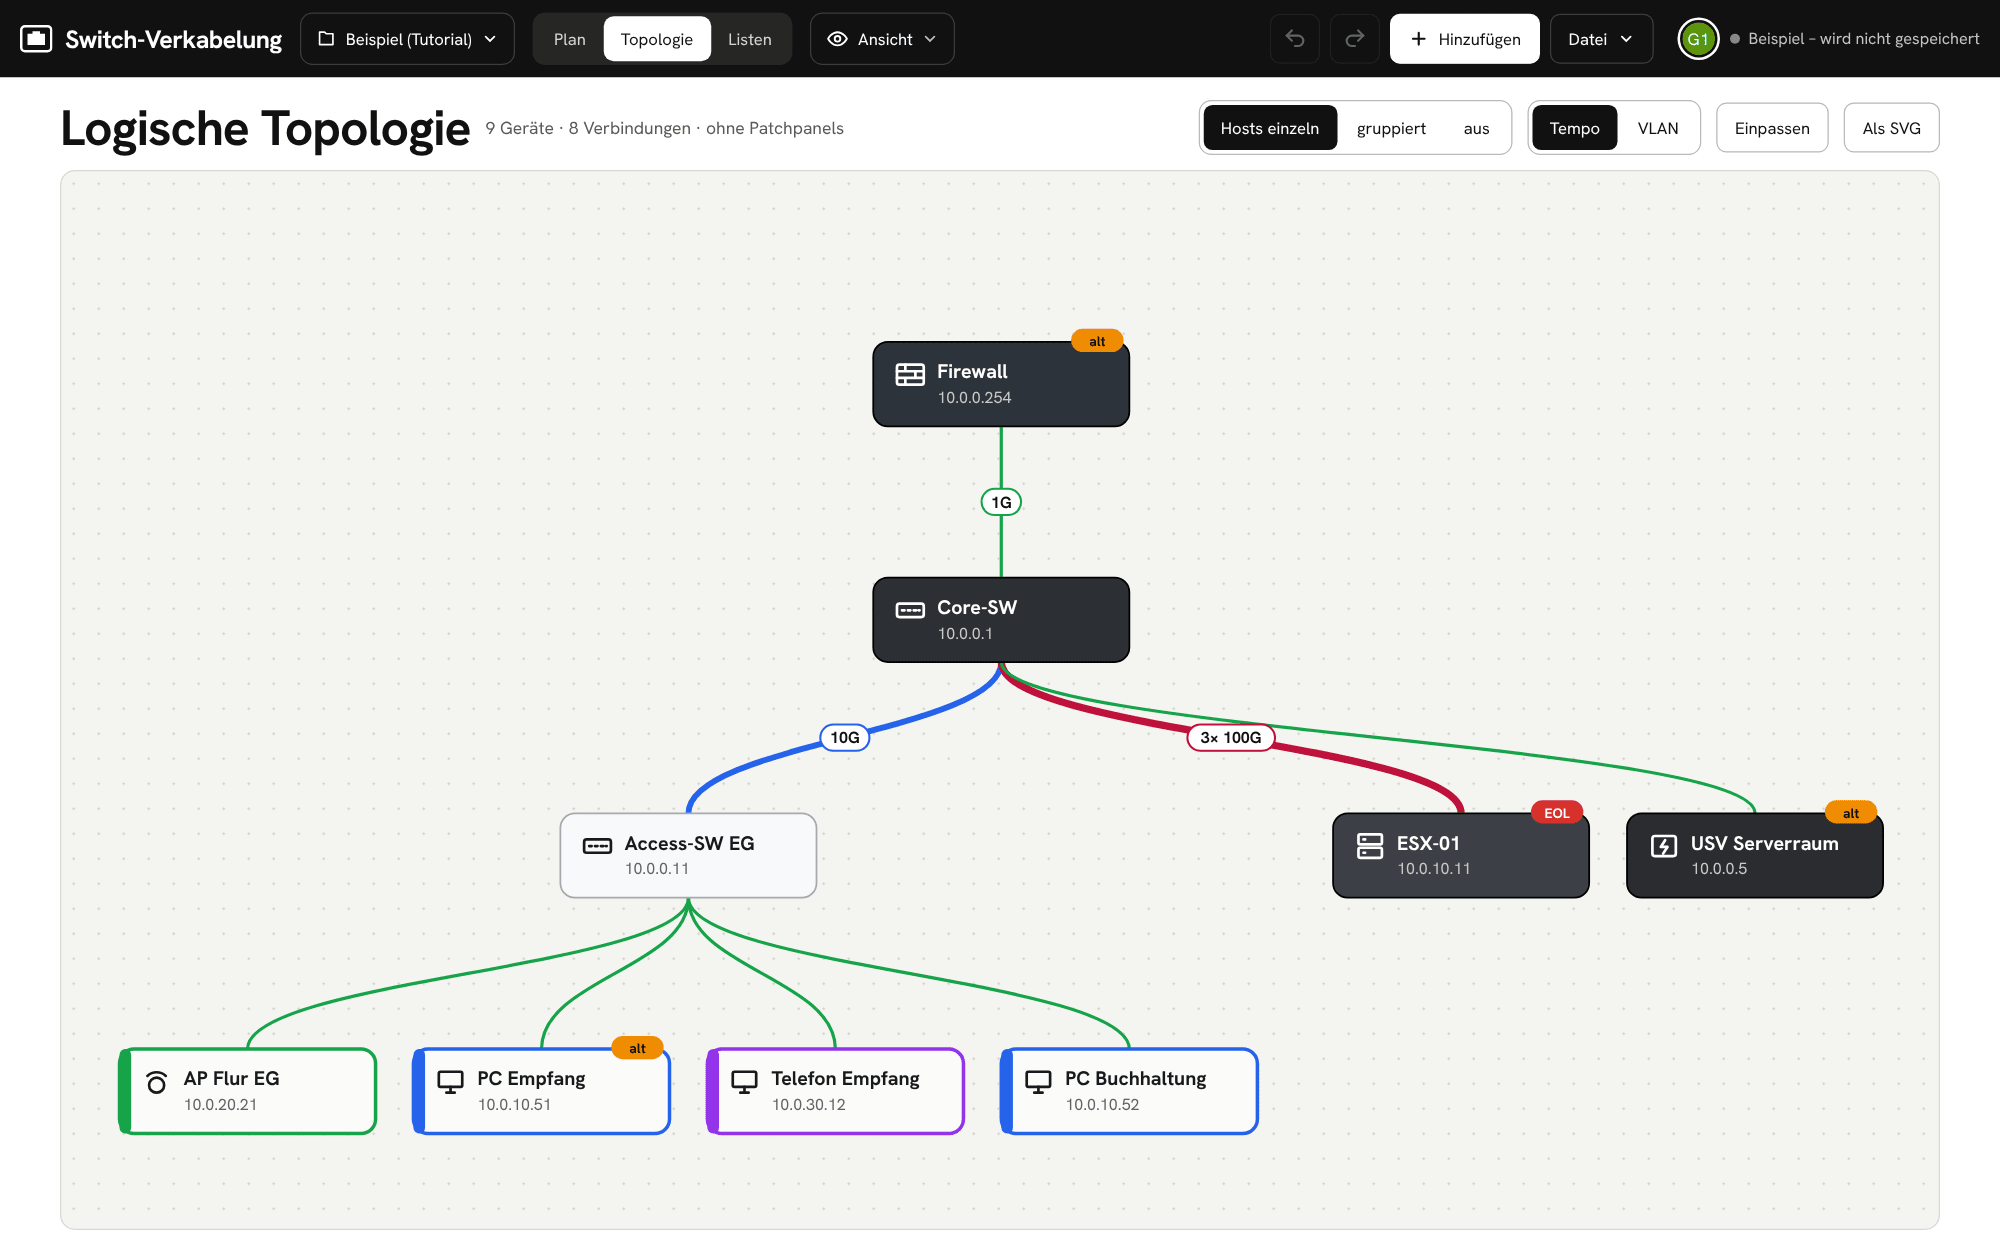
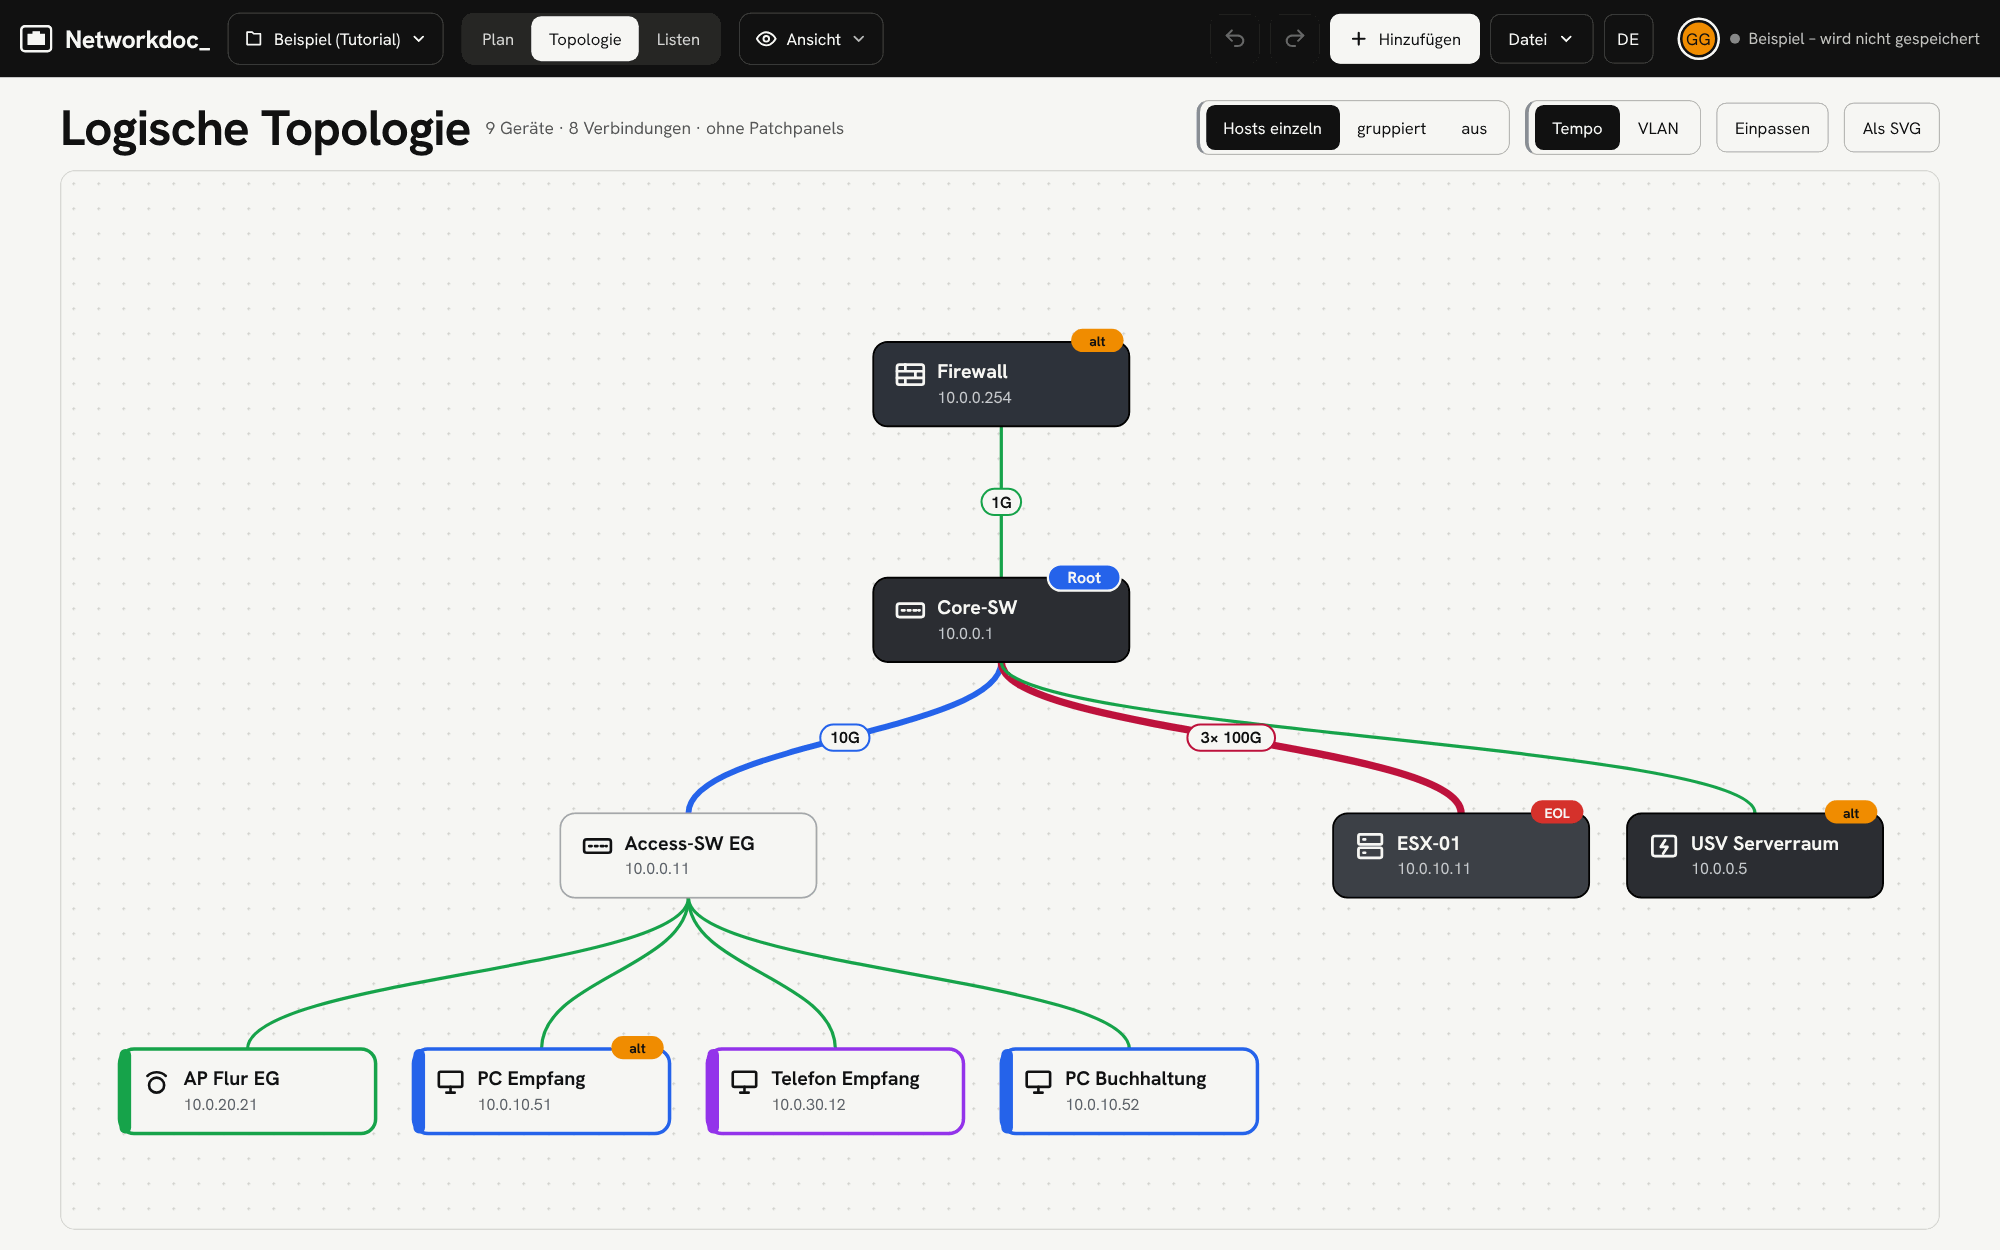
Screenshots mit neuem Namen, Image-Tag je Release
- Screenshots im README neu aufgenommen (Kopfzeile „Networkdoc_“, Spanning-Tree-
  Bereich im Projekt).
- Build-Ablauf: Ein Git-Tag wie v1.0 erzeugt jetzt auch ein gleichnamiges Image-Tag.
- README: feste Version per Release-Tag, Verbindungstest auch ohne IP-Adressen.

Claude-Session: https://claude.ai/code/session_01A9dmJmeCipEMR3BAmEA5RX

diff --git a/README.md b/README.md
@@ -25,7 +25,7 @@ Netzwerk-Verkabelung im Browser planen und dokumentieren. Switches, Firewalls, P
 - **Deutsch und Englisch:** Der Knopf **DE/EN** oben rechts schaltet die Sprache um. Übersetzt werden Oberfläche, Hinweise, Listen, CSV, PDF-Dokumentation und Etiketten; eigene Namen von Geräten, Räumen oder Plänen bleiben, wie sie sind. Beim ersten Aufruf richtet sich die Sprache nach dem Browser. Die Übersetzungen stehen in `scripts/i18n_en.py`, daraus erzeugt `python3 scripts/i18n_en.py` die Datei `src/i18n-en.js`.
 - **Mehrere Pläne:** Oben links wählst du den Plan, legst neue an, benennst um, duplizierst oder löschst. Das mitgelieferte Beispiel bleibt immer als Tutorial erhalten: Darin kannst du alles ausprobieren, gespeichert wird nichts. Mit „Beispiel als eigenen Plan speichern“ wird daraus ein echter Plan. Im Menü siehst du, wer gerade in welchem Plan arbeitet. Ein Link mit `?plan=<id>` öffnet direkt einen bestimmten Plan, die QR-Codes auf Etiketten enthalten ihn automatisch.
 - **Live zusammenarbeiten:** Jede Änderung wird sofort gespeichert und erscheint bei allen, die den Plan offen haben. Arbeiten zwei Leute gleichzeitig, werden ihre Änderungen je Gerät, Kabel und Feld zusammengeführt. Gleichzeitige Änderungen an verschiedenen Dingen gehen also nicht verloren; am selben Feld gilt die zuletzt gespeicherte. Oben rechts siehst du, wer gerade im Plan ist. Im Plan erscheinen ihre Mauszeiger mit Namen und Farbe, außerdem das Gerät, das jemand gerade verschiebt, als Umriss an der neuen Stelle, das Kabel, das jemand zieht, und was gerade ausgewählt ist. Rückgängig (Strg+Z) nimmt nur deine eigenen Schritte zurück.
-- **Verbindungstest (Ping):** Bei jedem Gerät mit IP-Adresse wählst du rechts unter „Verbindungstest“ ein Ziel. Ein simuliertes Ping-Paket läuft dann – ähnlich wie im Simulationsmodus von Cisco Packet Tracer – im Plan über Kabel, Patchpanels, Switches und das Gateway zum Ziel und als Antwort zurück. Die Liste daneben zeigt jede Station mit Ein- und Ausgangsport, VLAN (getaggt oder nicht) und Kabelnummern, dazu eine Ping-Ausgabe wie in der Eingabeaufforderung. Kommt das Paket nicht an, steht dort, wo und warum: Port deaktiviert, kein Link, durch RSTP blockiert, VLAN auf dem Trunk nicht erlaubt, falsches Access-VLAN, kein Gateway eingetragen, Router ohne Port im Zielnetz oder eine offene Strecke am Patchpanel. Ohne IP-Adressen geht es auch: Dann wird nur die Route verfolgt – über Kabel, Switches und, wo bekannt, VLANs; passt das VLAN nicht, zeigt es trotzdem den Kabelweg und markiert das Problem. Das Ergebnis aktualisiert sich, sobald du etwas korrigierst. Geprüft wird nur, was dokumentiert ist; Firewall-Regeln und Routing-Tabellen werden nicht nachgebildet, Ports ohne VLAN-Angabe gelten als transparent.
+- **Verbindungstest (Ping):** Bei jedem aktiven Gerät wählst du rechts unter „Verbindungstest“ ein Ziel. Ein simuliertes Ping-Paket läuft dann – ähnlich wie im Simulationsmodus von Cisco Packet Tracer – im Plan über Kabel, Patchpanels, Switches und das Gateway zum Ziel und als Antwort zurück. Die Liste daneben zeigt jede Station mit Ein- und Ausgangsport, VLAN (getaggt oder nicht) und Kabelnummern, dazu eine Ping-Ausgabe wie in der Eingabeaufforderung. Kommt das Paket nicht an, steht dort, wo und warum: Port deaktiviert, kein Link, durch RSTP blockiert, VLAN auf dem Trunk nicht erlaubt, falsches Access-VLAN, kein Gateway eingetragen, Router ohne Port im Zielnetz oder eine offene Strecke am Patchpanel. Ohne IP-Adressen geht es auch: Dann wird nur die Route verfolgt – über Kabel, Switches und, wo bekannt, VLANs; passt das VLAN nicht, zeigt es trotzdem den Kabelweg und markiert das Problem. Das Ergebnis aktualisiert sich, sobald du etwas korrigierst. Geprüft wird nur, was dokumentiert ist; Firewall-Regeln und Routing-Tabellen werden nicht nachgebildet, Ports ohne VLAN-Angabe gelten als transparent.
 - **Spanning Tree (RSTP):** Für Switches lassen sich RSTP (an/aus), Bridge-Priorität, MAC und je Port die Pfadkosten festlegen. Daraus berechnet die App den Baum wie RSTP im eingeschwungenen Zustand: Root-Bridge, Root-Ports, Designated Ports und blockierte Alternate-/Backup-Ports, mit Pfadkosten nach IEEE 802.1t (oder 802.1D kurz). Blockierte Ports stehen orange im Plan und gestrichelt in der Topologie, auf Wunsch auch alle Rollen und die Kosten je Switch. Budgets: Max Age gilt als Hop-Budget (Standard 20) – Switches, die zu weit von der Root entfernt sind, werden gemeldet –, dazu die Timer-Regel 2 × (Forward Delay − 1) ≥ Max Age ≥ 2 × (Hello + 1) und ein Hinweis, wenn der Durchmesser über 7 Switches liegt. Switches mit ausgeschaltetem Spanning Tree gelten als Hubs; eine Schleife nur über sie wird als Fehler gemeldet. Der Verbindungstest nimmt den Weg, den RSTP offen lässt.
 - **Wer hat was angelegt und geändert:** Ganz unten in den Eigenschaften eines Geräts, Kabels, Schranks oder Raums steht, wer es angelegt und wer es zuletzt bearbeitet hat, mit Zeitpunkt. Auf dem Server ist das der Kontoname, ohne Anmeldung der Gastname (z. B. „Gast F03“) oder der Name, den man sich über das eigene Kürzel oben rechts gegeben hat. Verschieben zählt als Bearbeitung, das Mitwandern beim Verschieben eines Raums nicht; ein gestecktes oder gezogenes Kabel zählt bei beiden Geräten.
 
@@ -124,7 +124,7 @@ git pull
 docker compose up -d --build
 ```
 
-Fertige Images für amd64 und arm64 (auch Raspberry Pi) baut GitHub Actions bei jedem Push nach `ghcr.io/thenic0ntr/switch-verkabelung:latest`. Statt `build: .` kannst du in `docker-compose.yml` auch dieses Image verwenden.
+Fertige Images für amd64 und arm64 (auch Raspberry Pi) baut GitHub Actions bei jedem Push nach `ghcr.io/thenic0ntr/switch-verkabelung:latest`. Statt `build: .` kannst du in `docker-compose.yml` auch dieses Image verwenden. Für eine feste Version nimmst du statt `latest` den Tag eines Releases, z. B. `ghcr.io/thenic0ntr/switch-verkabelung:v1.0`.
 
 ### Ohne Docker
 
